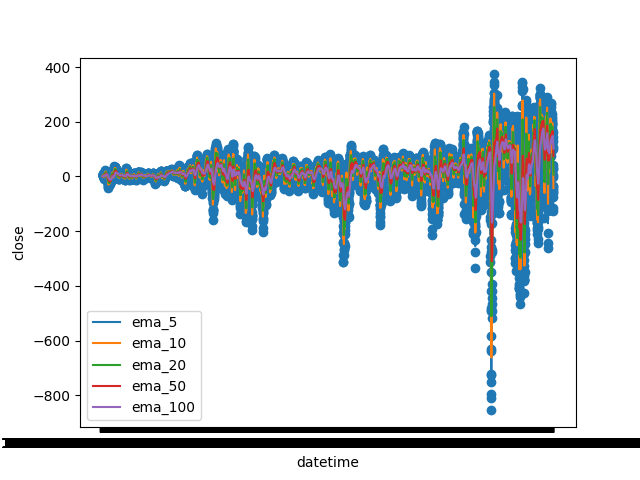
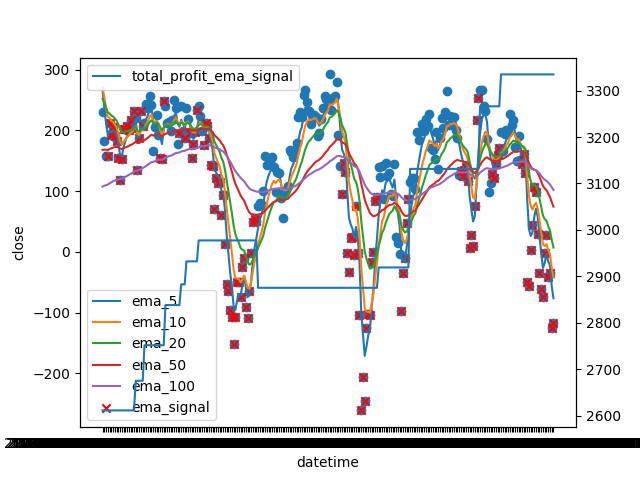
changes

diff --git a/ms/strategy.py b/ms/strategy.py
@@ -1,0 +1,55 @@
+
+from ms.data import Data
+
+
+
+
+class Strategy:
+    def __init__(self,data:Data):
+        self.data=data
+        self.df=data.df
+        
+        
+    def calculate_profit(self, signal_column='ema_signal', price_column='close'):
+        """
+        Calculate profit based on buy/sell signals in a DataFrame.
+
+        Parameters:
+            df (pd.DataFrame): DataFrame containing stock data.
+            signal_column (str): Name of the column with buy (1) and sell (0) signals.
+            price_column (str): Name of the column with stock prices.
+
+        Returns:
+            float: Total profit or loss.
+        """
+        self.df[f'total_profit_{signal_column}']=0
+        # Initialize variables
+        holding = 0  # Tracks whether we currently hold stock (1 if holding, 0 if not)
+        total_profit = 0.0  # Tracks the total profit
+        last_buy_price = 0.0  # Price at which the last buy occurred
+
+        for index, row in self.df.iterrows():
+            signal = row[signal_column]
+            price = row[price_column]
+            if signal == 1 and holding == 0:  # Buy signal and not holding
+                last_buy_price = price
+                
+                holding = 1
+            elif signal == 0 and holding == 1:  # Sell signal and holding
+                total_profit += price - last_buy_price
+                holding = 0
+            self.df.at[index,f'total_profit_{signal_column}']=total_profit
+
+        self.data._set_columns_as_attributes()
+        return total_profit
+
+    def ema_strategy(self,ema1='ema_10',ema2='ema_20',sign='<'):
+        if sign =='>':
+            self.data.df['ema_signal']=self.data.df.apply(lambda x: 1 if x[ema1]>x[ema2] else 0,axis=1)
+        elif sign=='<':
+            self.data.df['ema_signal']=self.data.df.apply(lambda x: 1 if x[ema1]<x[ema2] else 0,axis=1)
+        self.data.df['ema_signal'].fillna(0, inplace=True)
+        self.data.df['ema_signal_close']=self.data.df['close']*self.data.df['ema_signal']
+        self.data._set_columns_as_attributes()
+        
+        

diff --git a/ms/plotter.py b/ms/plotter.py
@@ -6,8 +6,8 @@ from ms.data import Data
 
 
 class Plotter:
-    def __init__(self):
-        self.df=None
+    def __init__(self,df):
+        self.df=df
         self.logger=setup_logger('plotter')
         self.logger.info('plotter object created')
         self.this_path = os.path.dirname(os.path.abspath(__file__)) 
@@ -17,17 +17,38 @@ class Plotter:
                               ,xcol='datetime'
                               ,ycol='close'
                               ,ema_cols=None
+                              ,signal_col=None
                               ,show=True
                               ,save=True
+                              ,subplot=(False, ) # ( True, columnn_name)
+                              ,start_date='2024-01-01' # yyyy-mm-dd 
+                              ,end_date='today'
                               ,fname='simplest_scatter_plot.png'): 
-        plt.scatter(data.df[xcol],data.df[ycol]) 
+        if start_date is not None:
+            self.df=self.df[self.df['datetime']>=start_date]
+
+        if end_date is not None and end_date!='today':
+            self.df=self.df[self.df['datetime']<=end_date]
+            
+        
+        plt.scatter(self.df[xcol],self.df[ycol]) 
         plt.xlabel(xcol)
         plt.ylabel(ycol)
         
         # if ema cols are not none plot them as lines 
         if ema_cols:
             for col in ema_cols:
-                plt.plot(data.df[xcol],data.df[col],label=col)
+                plt.plot(self.df[xcol],self.df[col],label=col)
+            plt.legend()
+        if signal_col:
+            signal_mask=self.df[signal_col]==1
+            plt.scatter(self.df[xcol][signal_mask],self.df[ycol][signal_mask],marker='x', color='red',label=signal_col)
+            plt.legend()
+        
+        if subplot[0]:
+            # plot on secondary y axis 
+            plt.twinx()
+            plt.plot(self.df[xcol],self.df[subplot[1]],label=subplot[1])
             plt.legend()
         
         if show:

diff --git a/main.py b/main.py
@@ -2,7 +2,7 @@
 
 import ms
 import ms.data 
-
+import ms.strategy
 
 #d=ms.Downloader()
 #d.download_historical_data()
@@ -13,7 +13,20 @@ print(d.columns)
 d.recalculate_all()
 d.normalize()
 
+s=ms.strategy.Strategy(d)
+s.ema_strategy()
+profit=s.calculate_profit()
+print(profit)
+# print d attributes 
+
+
+
 #d.download_historical_data()
 
-p=ms.plotter.Plotter()
-p.simplest_scatter_plot(d,show=False,ema_cols=['ema_5','ema_10','ema_20','ema_50','ema_100'])
+p=ms.plotter.Plotter(d.df)
+p.simplest_scatter_plot(d,show=False
+                        ,ema_cols=['ema_5','ema_10','ema_20','ema_50','ema_100']
+                        ,signal_col='ema_signal'
+                        ,subplot=(True,'total_profit_ema_signal')
+                        )
+print('ok')

diff --git a/ms/data.py b/ms/data.py
@@ -131,9 +131,13 @@ class Data:
         self.calculate_macd()
 
 
+    
+
     def normalize(self,norm_column='sma_50'):
         for col in self.base_columns:
             self.df[f'{col}']=self.df[col]-self.df[norm_column]
+            # set nans to zero 
+            self.df[f'{col}'].fillna(0,inplace=True)
         self.recalculate_all()
         
     

diff --git a/ms/__init__.py b/ms/__init__.py
@@ -1,4 +1,5 @@
 from .utils import *
 from .data import Data
 from .plotter import Plotter
+from .strategy import Strategy
 
